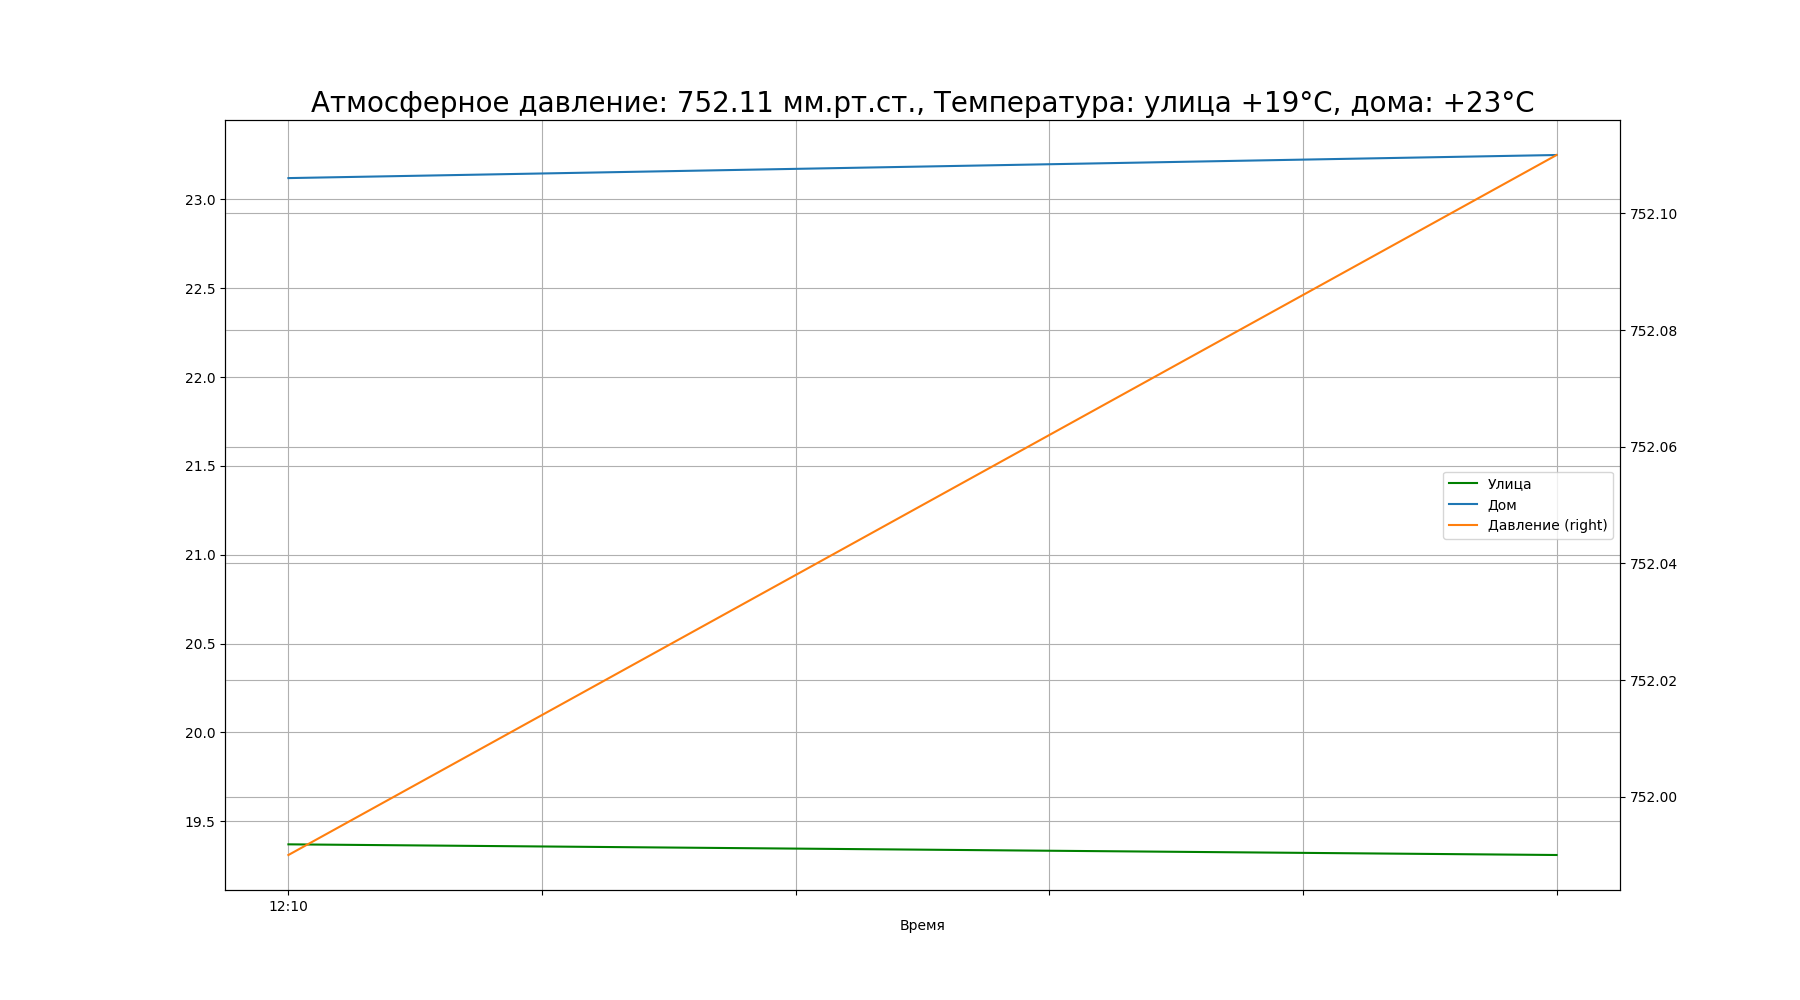
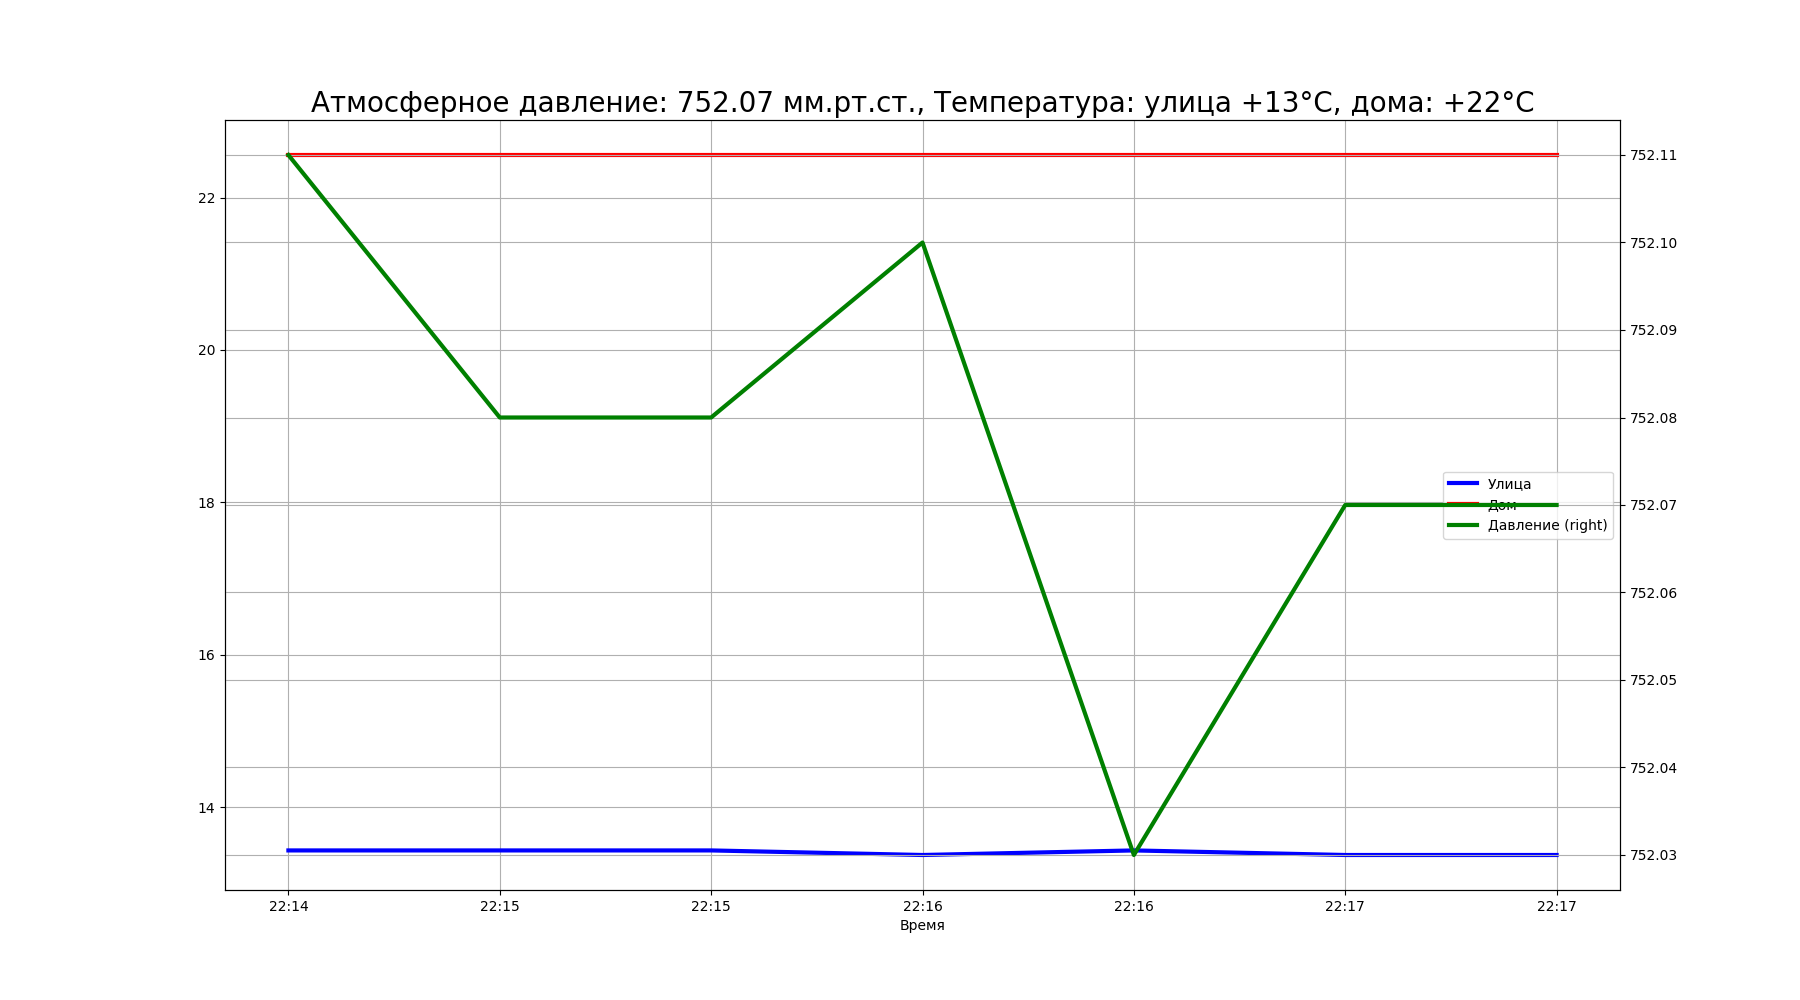
Изменены цвета и толщина линий

diff --git a/updater2.py b/updater2.py
@@ -13,7 +13,7 @@ pressure = []  # Массив для записи данных о давлени
 time_get = []
 interval = 60 * 10  # Интервал обновления данных в секундах
 graph_delta = 24  # Количество часов для отображения на графике
-data_col = (3600 * graph_delta) / interval # Количество записей для отображения на графике
+data_col = (3600 * graph_delta) / interval  # Количество записей для отображения на графике
 
 
 def zapros_sensor(url_link, num):  # Функция для запроса данных с сенсора
@@ -25,7 +25,7 @@ def zapros_sensor(url_link, num):  # Функция для запроса дан
     except Exception as e:  # Если запрос не удался, то возвращаем 0
         logging.error(f'Ошибка запроса данных с сенсора {e}')
         print(e)
-        return 888888 # Признак ошибки получения данных
+        return 888888  # Признак ошибки получения данных
 
 
 def check_len_data(spisok):  # Функция для проверки длины массива
@@ -63,10 +63,9 @@ def update_data():  # Функция для обновления данных
             df = pd.DataFrame(
                 {'Время': time_get, 'Улица': temp, 'Дом': temp_k, 'Давление': pressure})  # Создаем датафрейм
             plt.figure(1, figsize=(20, 15), dpi=80)  # Создаем график и задаем размеры его по ширине и высоте
-            ax = df.plot(x='Время', y=['Дом', 'Улица'], figsize=(18, 10), grid=True,
-                         style=['r:', 'b-'])  # Создаем график
+            ax = df.plot(x='Время', y=['Дом', 'Улица'], figsize=(18, 10), grid=True)  # Создаем график
             ax = df.plot(x='Время', secondary_y=['Давление'], figsize=(18, 10), grid=True,
-                         style=['g-'])  # Создаем график
+                         color=['b', 'r', 'g'], linewidth=3)  # Создаем график
             plt.title(
                 f'Атмосферное давление: {pressure[-1]} мм.рт.ст., Температура: улица {plus(temp[-1])}°C, дома: {plus(temp_k[-1])}°С',
                 fontsize=20)  # Задаем заголовок графика
@@ -82,10 +81,10 @@ def update_data():  # Функция для обновления данных
 
 if __name__ == '__main__':
     logging.basicConfig(filename='graph.log', level=logging.INFO, format='%(asctime)s - %(levelname)s - %(message)s')
-    logging.info('Запуск программы') # Выводим в лог информацию о запуске программы
+    logging.info('Запуск программы')  # Выводим в лог информацию о запуске программы
     try:
-        subprocess.Popen('python server1.py', shell=True) # Запускаем сервер
+        subprocess.Popen('python server1.py', shell=True)  # Запускаем сервер
     except Exception as e:
-        logging.error(f'Ошибка в модуле запуска сервера: {e}') # Выводим ошибку в лог
-    logging.info('Cервер запущен') # Выводим в лог информацию о запуске сервера
-    update_data() # Запускаем функцию обновления данных
+        logging.error(f'Ошибка в модуле запуска сервера: {e}')  # Выводим ошибку в лог
+    logging.info('Cервер запущен')  # Выводим в лог информацию о запуске сервера
+    update_data()  # Запускаем функцию обновления данных
